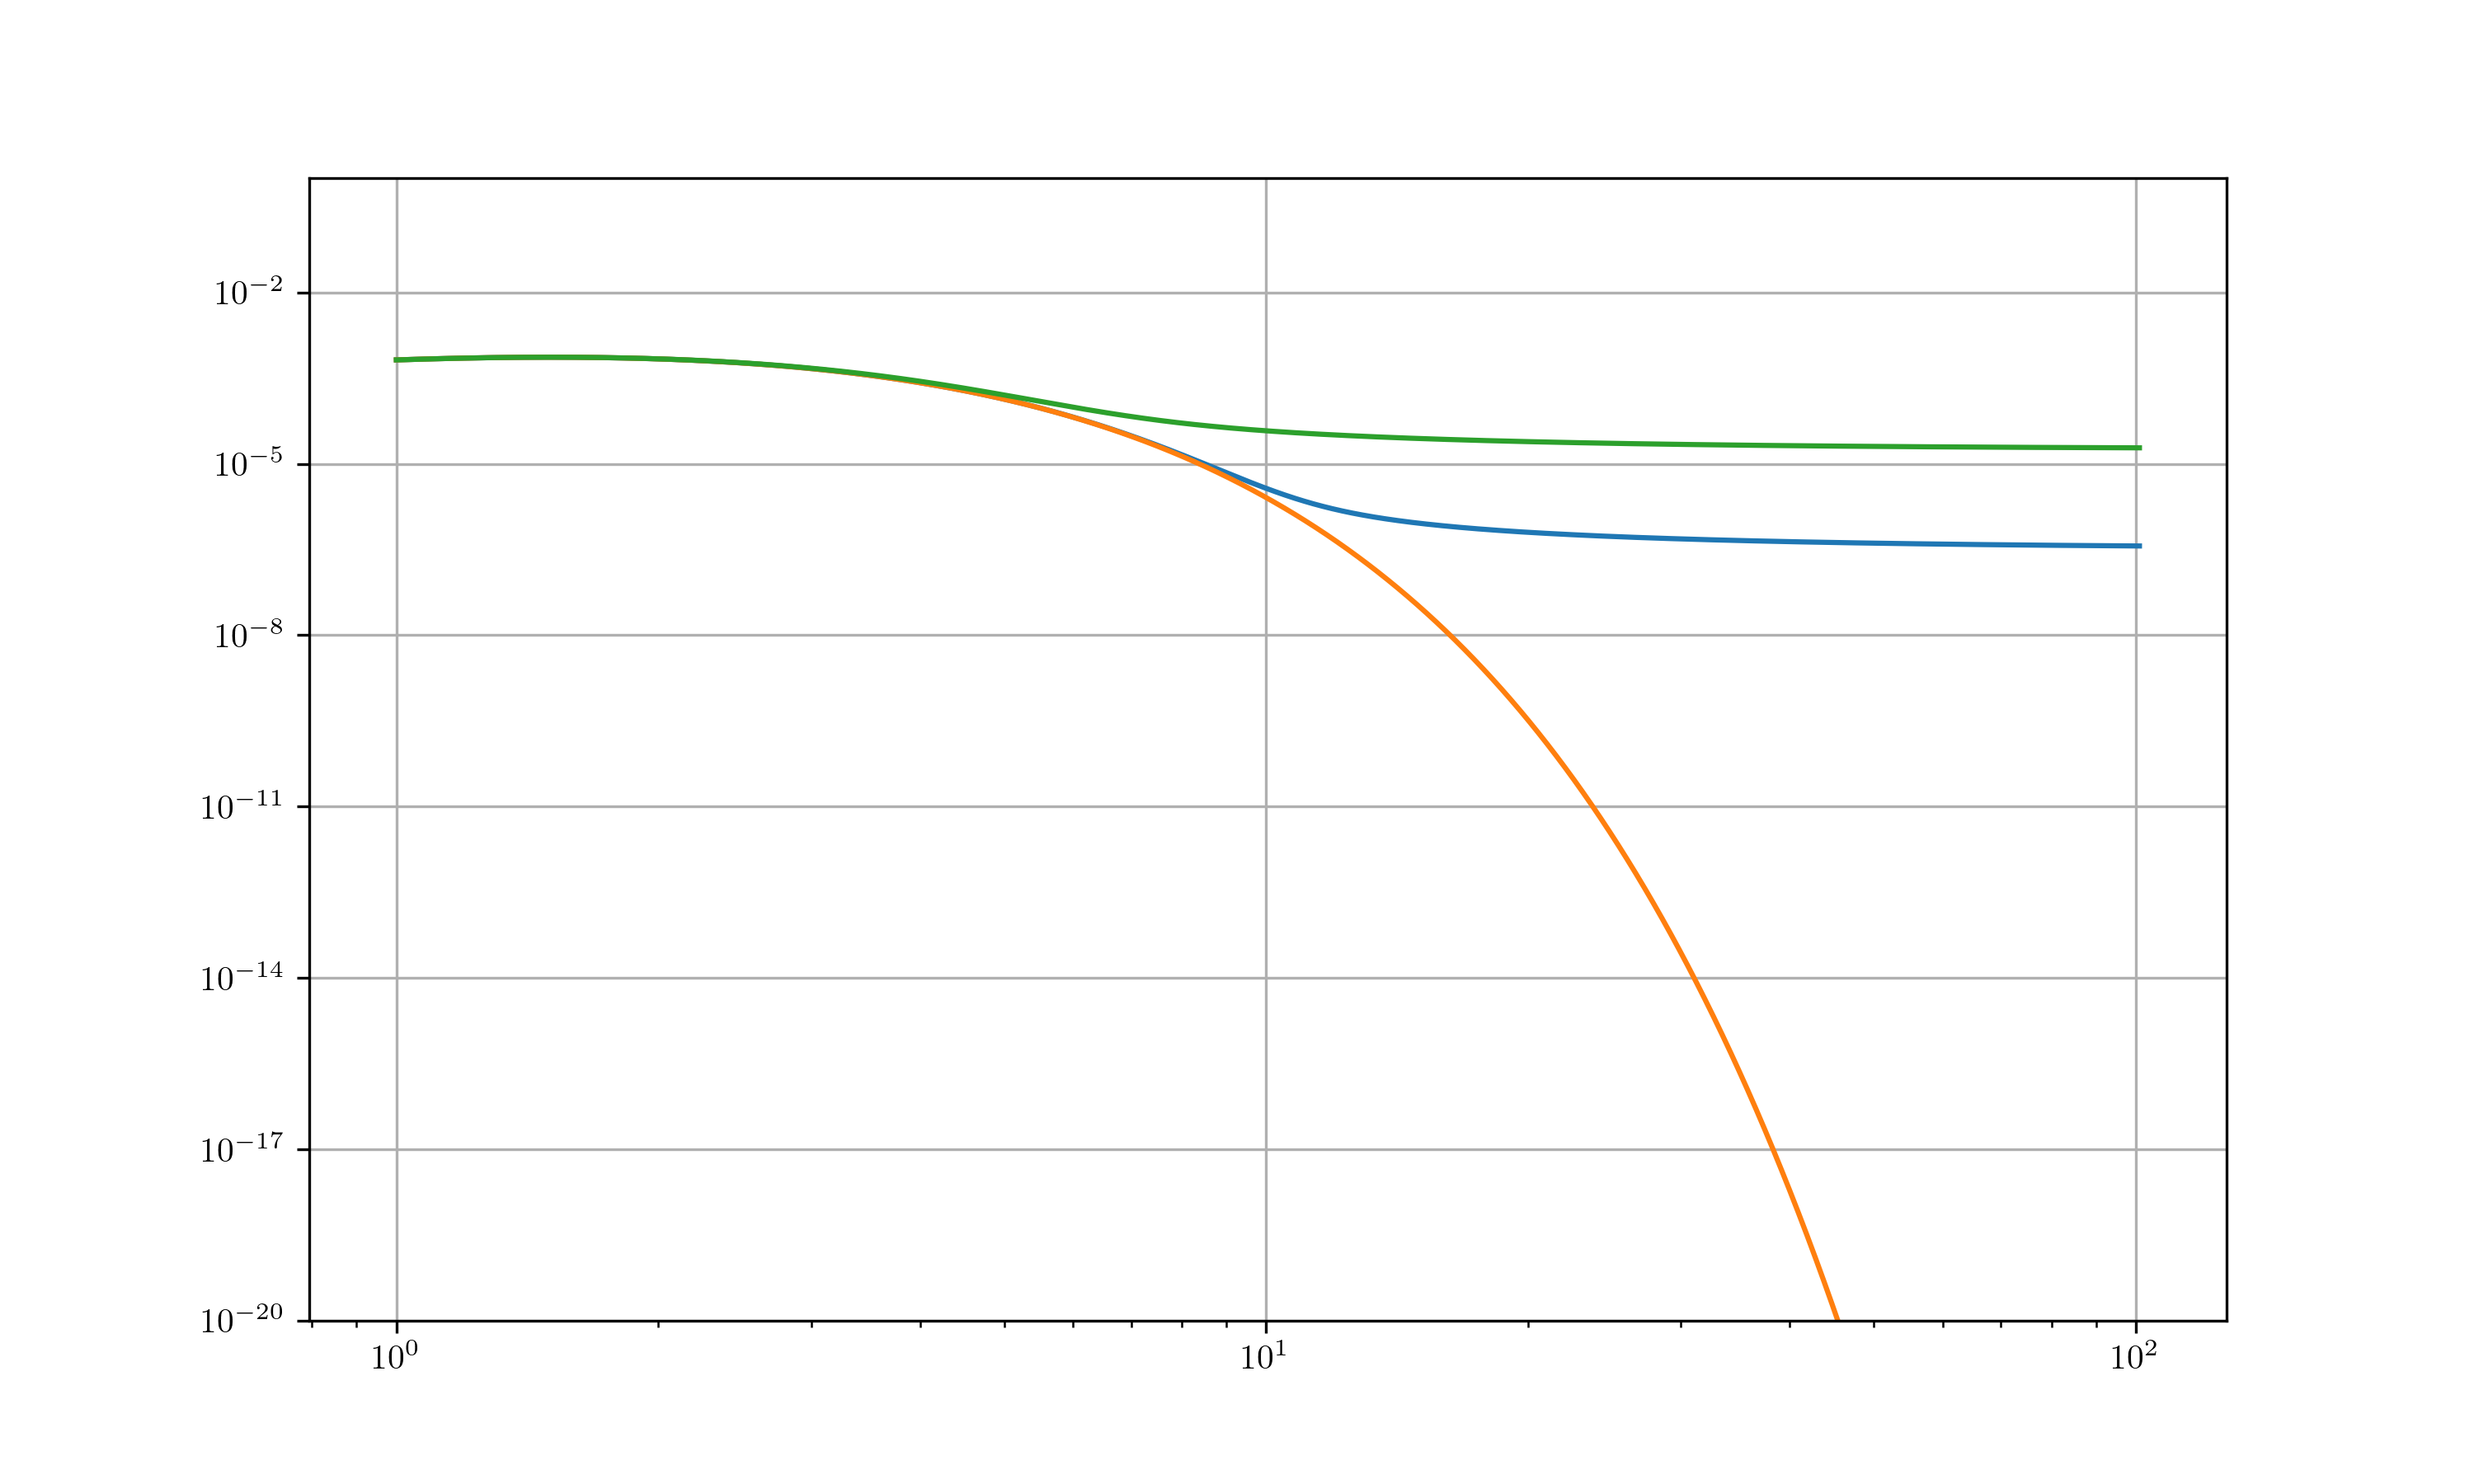
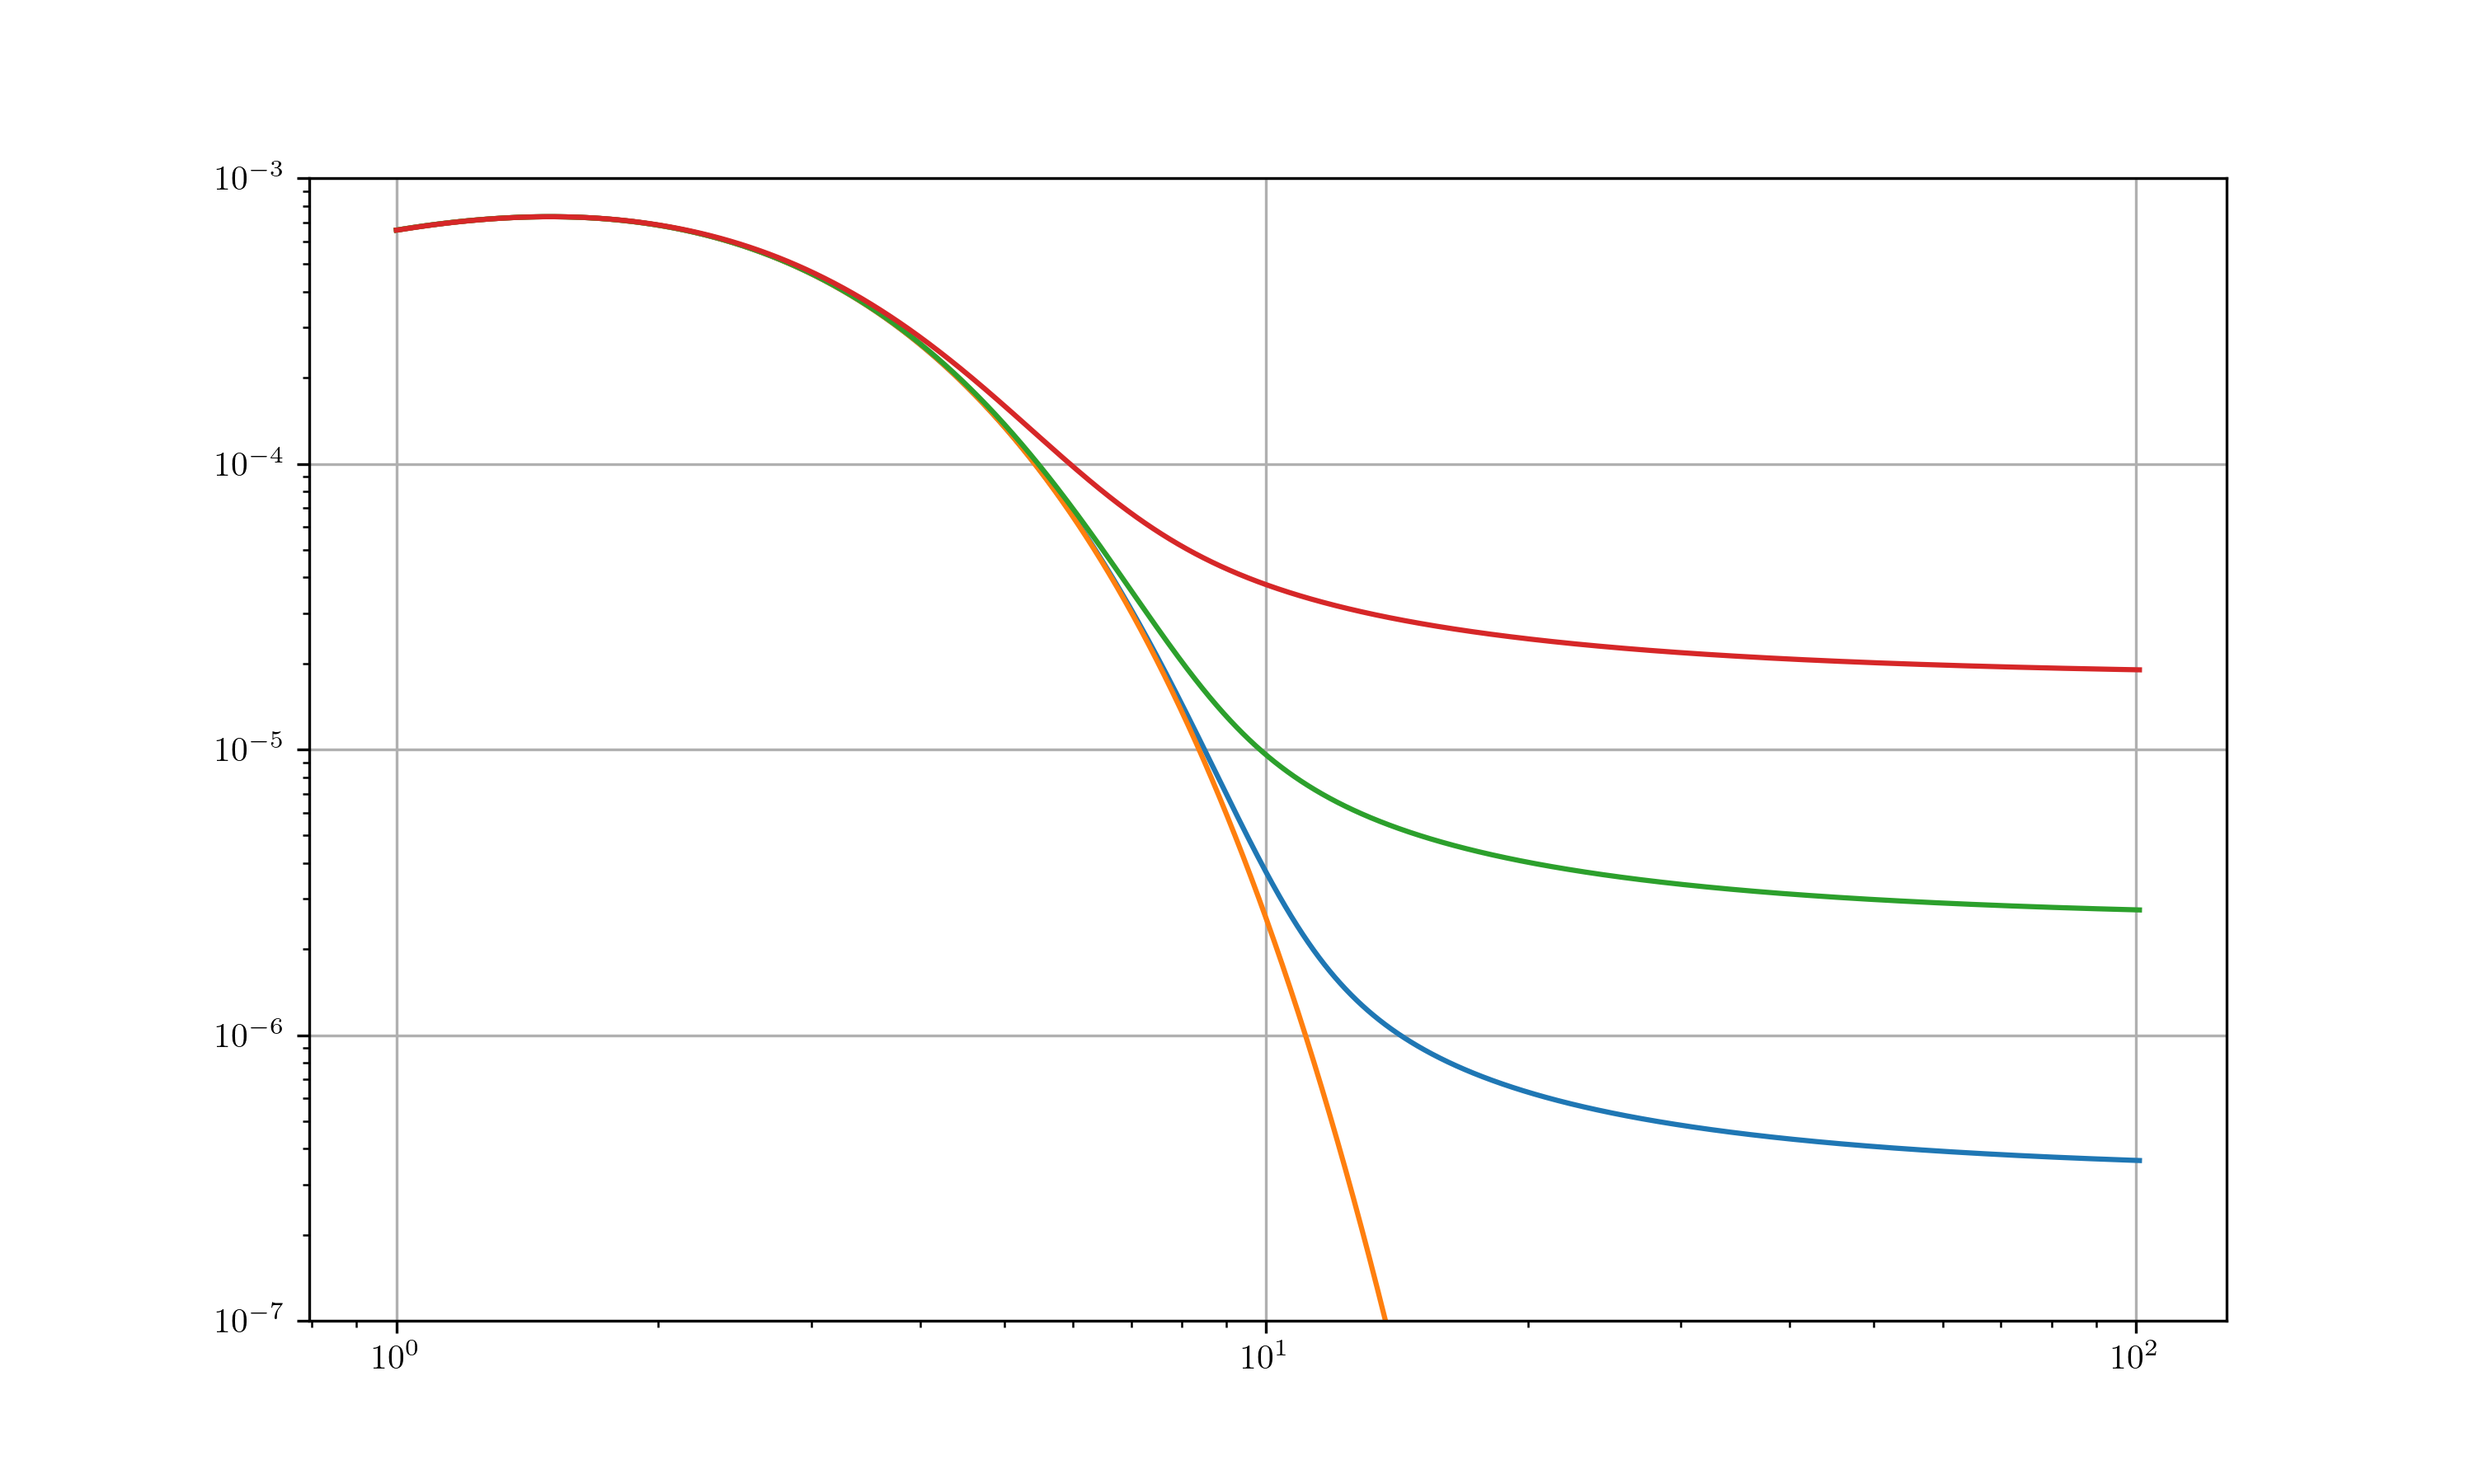
Wow

diff --git a/src/main.rs b/src/main.rs
@@ -12,7 +12,8 @@ const m: f64 = 100f64;
 
 fn main() {
     let mut ode_solver = ExplicitODE::new(|st| dydx(st, 1e-14f64));
-    let mut ode_solver2 = ExplicitODE::new(|st| dydx(st, 1e-16f64));
+    let mut ode_solver2 = ExplicitODE::new(|st| dydx(st, 1e-15f64));
+    let mut ode_solver3 = ExplicitODE::new(|st| dydx(st, 1e-16f64));
 
     let init_state: State<f64> = State::new(1f64, c!(y_eq(1f64)), c!(0f64));
 
@@ -28,13 +29,21 @@ fn main() {
         .set_step_size(1e-5)
         .set_times(10000000);
 
+    ode_solver3
+        .set_method(ExMethod::RK4)
+        .set_initial_condition(init_state.clone())
+        .set_step_size(1e-5)
+        .set_times(10000000);
+
     let result = ode_solver.integrate();
     let result2 = ode_solver2.integrate();
+    let result3= ode_solver3.integrate();
 
     let x = result.col(0);
     let y = result.col(1);
     let yeq = x.fmap(|t| y_eq(t));
     let y2 = result2.col(1);
+    let y3 = result3.col(1);
 
     python! {
         import pylab as plt
@@ -47,9 +56,10 @@ fn main() {
         plt.loglog('x, 'y)
         plt.loglog('x, 'yeq)
         plt.loglog('x, 'y2)
+        plt.loglog('x, 'y3)
 
         axes = plt.gca()
-        axes.set_ylim([1e-20, 1])
+        axes.set_ylim([1e-7, 1e-3])
 
         plt.grid()
         plt.savefig("plot.png")
